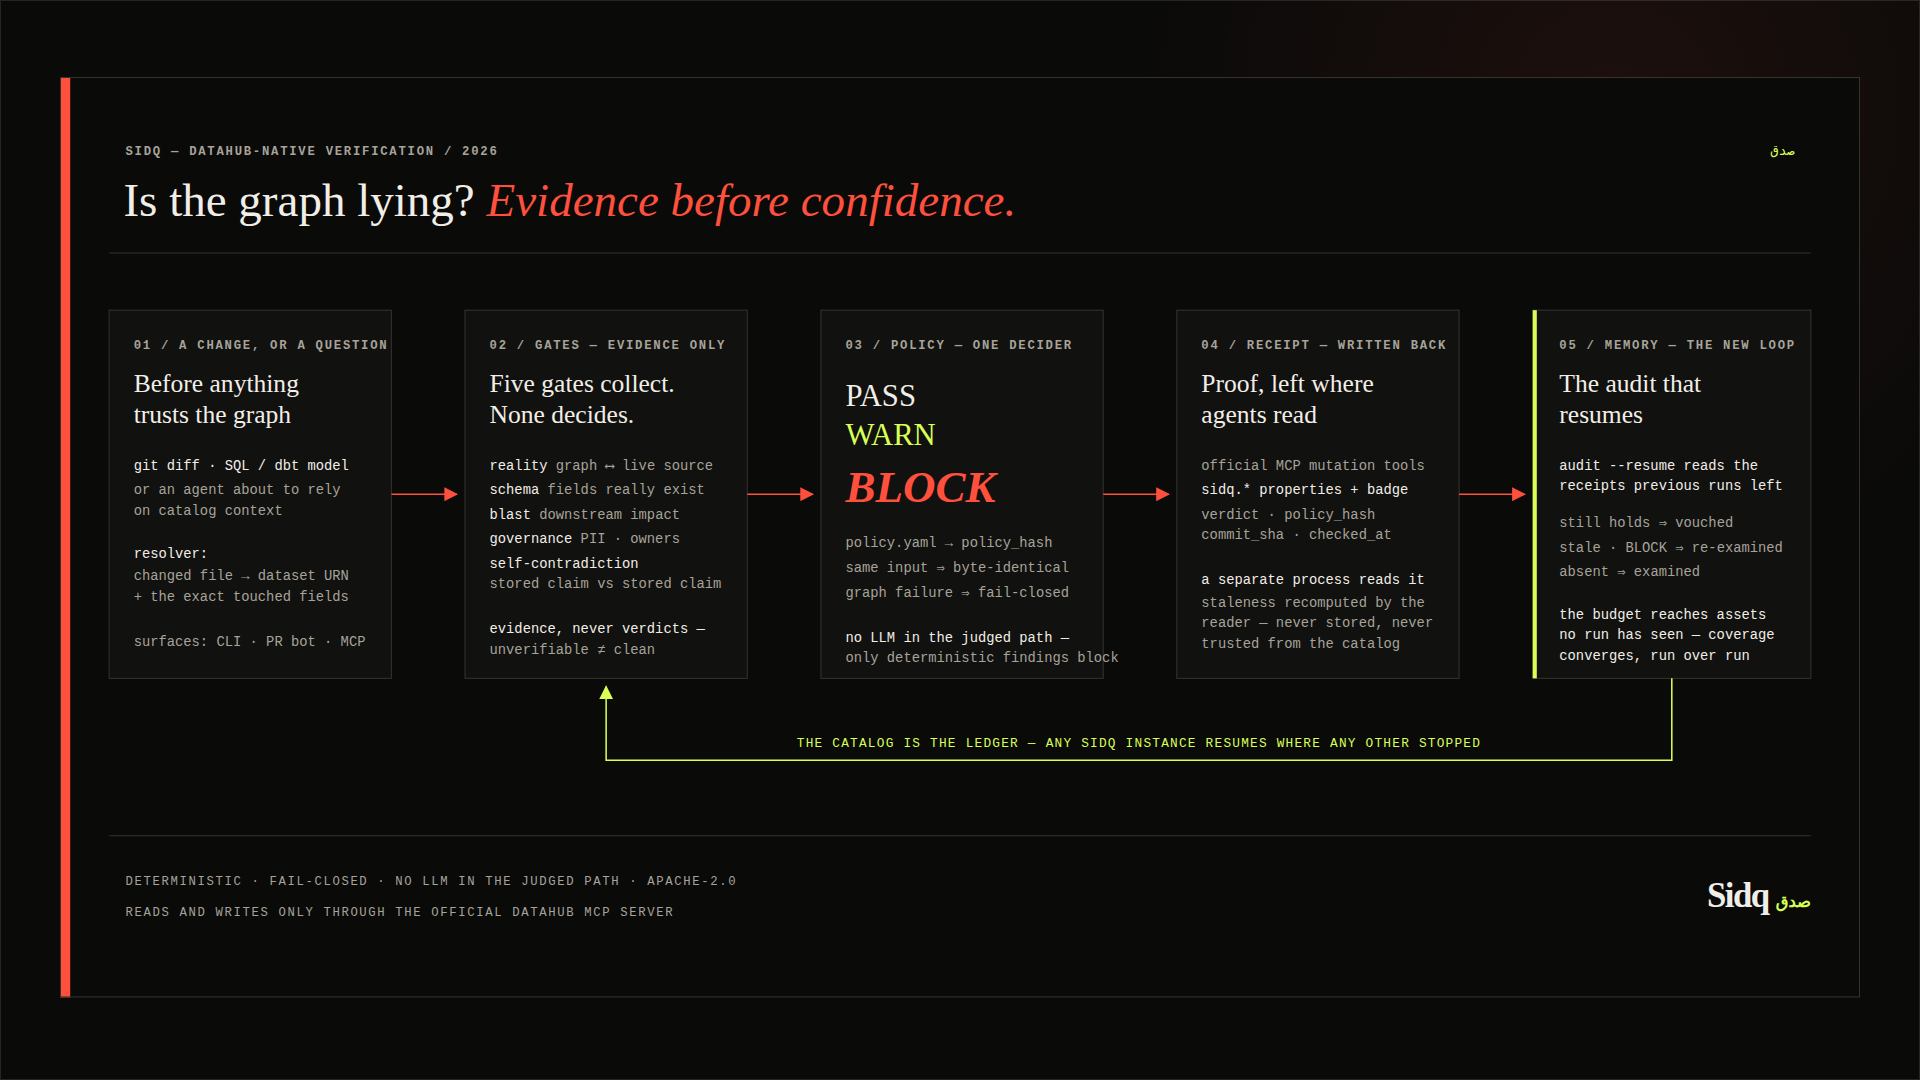
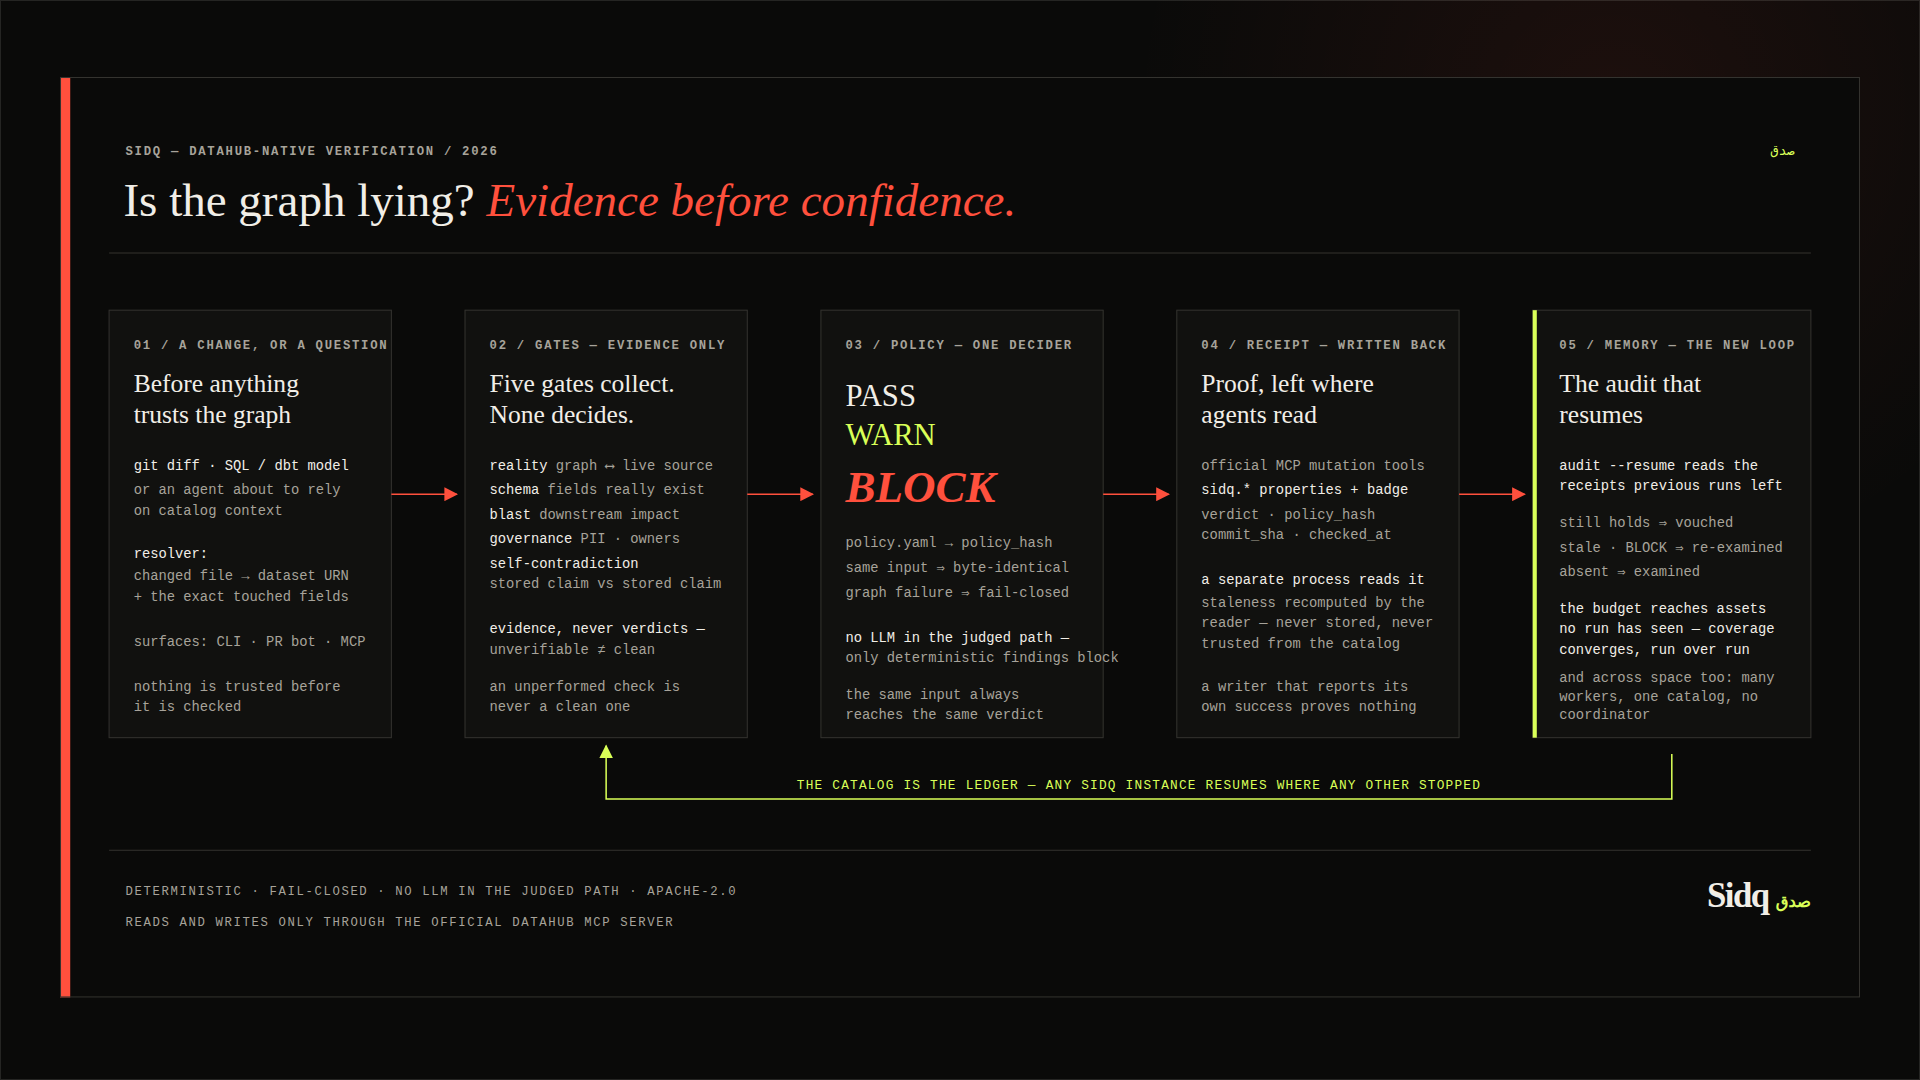
fix: the fifth panel outgrew the four beside it and the loop drove through one
Adding the swarm lines to panel 05 grew that card past the others, so a row
meant to read as one system read as one broken column — and the memory loop's
arrow, redirected to clear the taller card, landed inside panel 02's text
instead of on its edge.

Every panel now carries the same height, and the four that gained room gained a
line each rather than whitespace: what the stage refuses, stated where the stage
is described. The loop lands on the border it points at.

diff --git a/docs/gallery/src/03-architecture.html b/docs/gallery/src/03-architecture.html
@@ -43,7 +43,7 @@
 
   <!-- ===================== panel 1: change ===================== -->
   <g>
-    <rect x="48" y="228" width="276" height="360" fill="#11110f" stroke="#34332f"/>
+    <rect x="48" y="228" width="276" height="418" fill="#11110f" stroke="#34332f"/>
     <text class="mono eyebrow" x="72" y="266">01 / A CHANGE, OR A QUESTION</text>
     <text class="display title" x="72" y="308">Before anything</text>
     <text class="display title" x="72" y="338">trusts the graph</text>
@@ -54,11 +54,13 @@
     <text class="mono line" x="72" y="492">changed file → dataset URN</text>
     <text class="mono line" x="72" y="512">+ the exact touched fields</text>
     <text class="mono line" x="72" y="556">surfaces: CLI · PR bot · MCP</text>
+    <text class="mono line" x="72" y="600">nothing is trusted before</text>
+    <text class="mono line" x="72" y="620">it is checked</text>
   </g>
 
   <!-- ===================== panel 2: gates ===================== -->
   <g>
-    <rect x="396" y="228" width="276" height="360" fill="#11110f" stroke="#34332f"/>
+    <rect x="396" y="228" width="276" height="418" fill="#11110f" stroke="#34332f"/>
     <text class="mono eyebrow" x="420" y="266">02 / GATES — EVIDENCE ONLY</text>
     <text class="display title" x="420" y="308">Five gates collect.</text>
     <text class="display title" x="420" y="338">None decides.</text>
@@ -70,11 +72,13 @@
     <text class="mono line" x="420" y="500">  stored claim vs stored claim</text>
     <text class="mono line-strong" x="420" y="544">evidence, never verdicts —</text>
     <text class="mono line" x="420" y="564">unverifiable ≠ clean</text>
+    <text class="mono line" x="420" y="600">an unperformed check is</text>
+    <text class="mono line" x="420" y="620">never a clean one</text>
   </g>
 
   <!-- ===================== panel 3: policy ===================== -->
   <g>
-    <rect x="744" y="228" width="276" height="360" fill="#11110f" stroke="#34332f"/>
+    <rect x="744" y="228" width="276" height="418" fill="#11110f" stroke="#34332f"/>
     <text class="mono eyebrow" x="768" y="266">03 / POLICY — ONE DECIDER</text>
     <text class="display" x="768" y="322" font-size="30" fill="#f1eee7">PASS</text>
     <text class="display" x="768" y="360" font-size="30" fill="#d9ff57">WARN</text>
@@ -84,11 +88,13 @@
     <text class="mono line" x="768" y="508">graph failure ⇒ fail-closed</text>
     <text class="mono line-strong" x="768" y="552">no LLM in the judged path —</text>
     <text class="mono line" x="768" y="572">only deterministic findings block</text>
+    <text class="mono line" x="768" y="608">the same input always</text>
+    <text class="mono line" x="768" y="628">reaches the same verdict</text>
   </g>
 
   <!-- ===================== panel 4: receipt ===================== -->
   <g>
-    <rect x="1092" y="228" width="276" height="360" fill="#11110f" stroke="#34332f"/>
+    <rect x="1092" y="228" width="276" height="418" fill="#11110f" stroke="#34332f"/>
     <text class="mono eyebrow" x="1116" y="266">04 / RECEIPT — WRITTEN BACK</text>
     <text class="display title" x="1116" y="308">Proof, left where</text>
     <text class="display title" x="1116" y="338">agents read</text>
@@ -100,12 +106,14 @@
     <text class="mono line" x="1116" y="518">staleness recomputed by the</text>
     <text class="mono line" x="1116" y="538">reader — never stored, never</text>
     <text class="mono line" x="1116" y="558">trusted from the catalog</text>
+    <text class="mono line" x="1116" y="600">a writer that reports its</text>
+    <text class="mono line" x="1116" y="620">own success proves nothing</text>
   </g>
 
   <!-- ===================== panel 5: memory ===================== -->
   <g>
-    <rect x="1440" y="228" width="272" height="360" fill="#11110f" stroke="#34332f"/>
-    <rect x="1440" y="228" width="4" height="360" fill="#d9ff57"/>
+    <rect x="1440" y="228" width="272" height="418" fill="#11110f" stroke="#34332f"/>
+    <rect x="1440" y="228" width="4" height="418" fill="#d9ff57"/>
     <text class="mono eyebrow" x="1466" y="266" fill="#d9ff57">05 / MEMORY — THE NEW LOOP</text>
     <text class="display title" x="1466" y="308">The audit that</text>
     <text class="display title" x="1466" y="338">resumes</text>
@@ -114,9 +122,12 @@
     <text class="mono line" x="1466" y="440">still holds  ⇒ vouched</text>
     <text class="mono line" x="1466" y="464">stale · BLOCK ⇒ re-examined</text>
     <text class="mono line" x="1466" y="488">absent       ⇒ examined</text>
-    <text class="mono line-strong" x="1466" y="530">the budget reaches assets</text>
-    <text class="mono line-strong" x="1466" y="550">no run has seen — coverage</text>
-    <text class="mono line-strong" x="1466" y="570">converges, run over run</text>
+    <text class="mono line-strong" x="1466" y="524">the budget reaches assets</text>
+    <text class="mono line-strong" x="1466" y="544">no run has seen — coverage</text>
+    <text class="mono line-strong" x="1466" y="564">converges, run over run</text>
+    <text class="mono line" x="1466" y="592">and across space too: many</text>
+    <text class="mono line" x="1466" y="610">workers, one catalog, no</text>
+    <text class="mono line" x="1466" y="628">coordinator</text>
   </g>
 
   <!-- ===================== flow arrows ===================== -->
@@ -128,14 +139,14 @@
   </g>
   <!-- ===================== the memory loop ===================== -->
   <g fill="none" stroke="#d9ff57" stroke-width="1.5">
-    <path d="M 1576 588 L 1576 668 L 534 668 L 534 596" marker-end="url(#head-acid)"/>
+    <path d="M 1576 662 L 1576 706 L 534 706 L 534 654" marker-end="url(#head-acid)"/>
   </g>
-  <text class="mono" x="1055" y="655" font-size="12.5" letter-spacing="1.2" fill="#d9ff57" text-anchor="middle">THE CATALOG IS THE LEDGER — ANY SIDQ INSTANCE RESUMES WHERE ANY OTHER STOPPED</text>
+  <text class="mono" x="1055" y="696" font-size="12.5" letter-spacing="1.2" fill="#d9ff57" text-anchor="middle">THE CATALOG IS THE LEDGER — ANY SIDQ INSTANCE RESUMES WHERE ANY OTHER STOPPED</text>
 
   <!-- footer -->
-  <line x1="48" y1="742" x2="1712" y2="742" stroke="#34332f"/>
-  <text class="mono" x="64" y="790" font-size="12" letter-spacing="1.6" fill="#a7a39a">DETERMINISTIC · FAIL-CLOSED · NO LLM IN THE JUDGED PATH · APACHE-2.0</text>
-  <text class="mono" x="64" y="820" font-size="12" letter-spacing="1.6" fill="#a7a39a">READS AND WRITES ONLY THROUGH THE OFFICIAL DATAHUB MCP SERVER</text>
+  <line x1="48" y1="756" x2="1712" y2="756" stroke="#34332f"/>
+  <text class="mono" x="64" y="800" font-size="12" letter-spacing="1.6" fill="#a7a39a">DETERMINISTIC · FAIL-CLOSED · NO LLM IN THE JUDGED PATH · APACHE-2.0</text>
+  <text class="mono" x="64" y="830" font-size="12" letter-spacing="1.6" fill="#a7a39a">READS AND WRITES ONLY THROUGH THE OFFICIAL DATAHUB MCP SERVER</text>
   <text class="display" x="1712" y="812" font-size="34" font-weight="700" letter-spacing="-1.5" fill="#f1eee7" text-anchor="end">Sidq <tspan fill="#d9ff57" font-size="16">صدق</tspan></text>
 </svg>
 </div>
